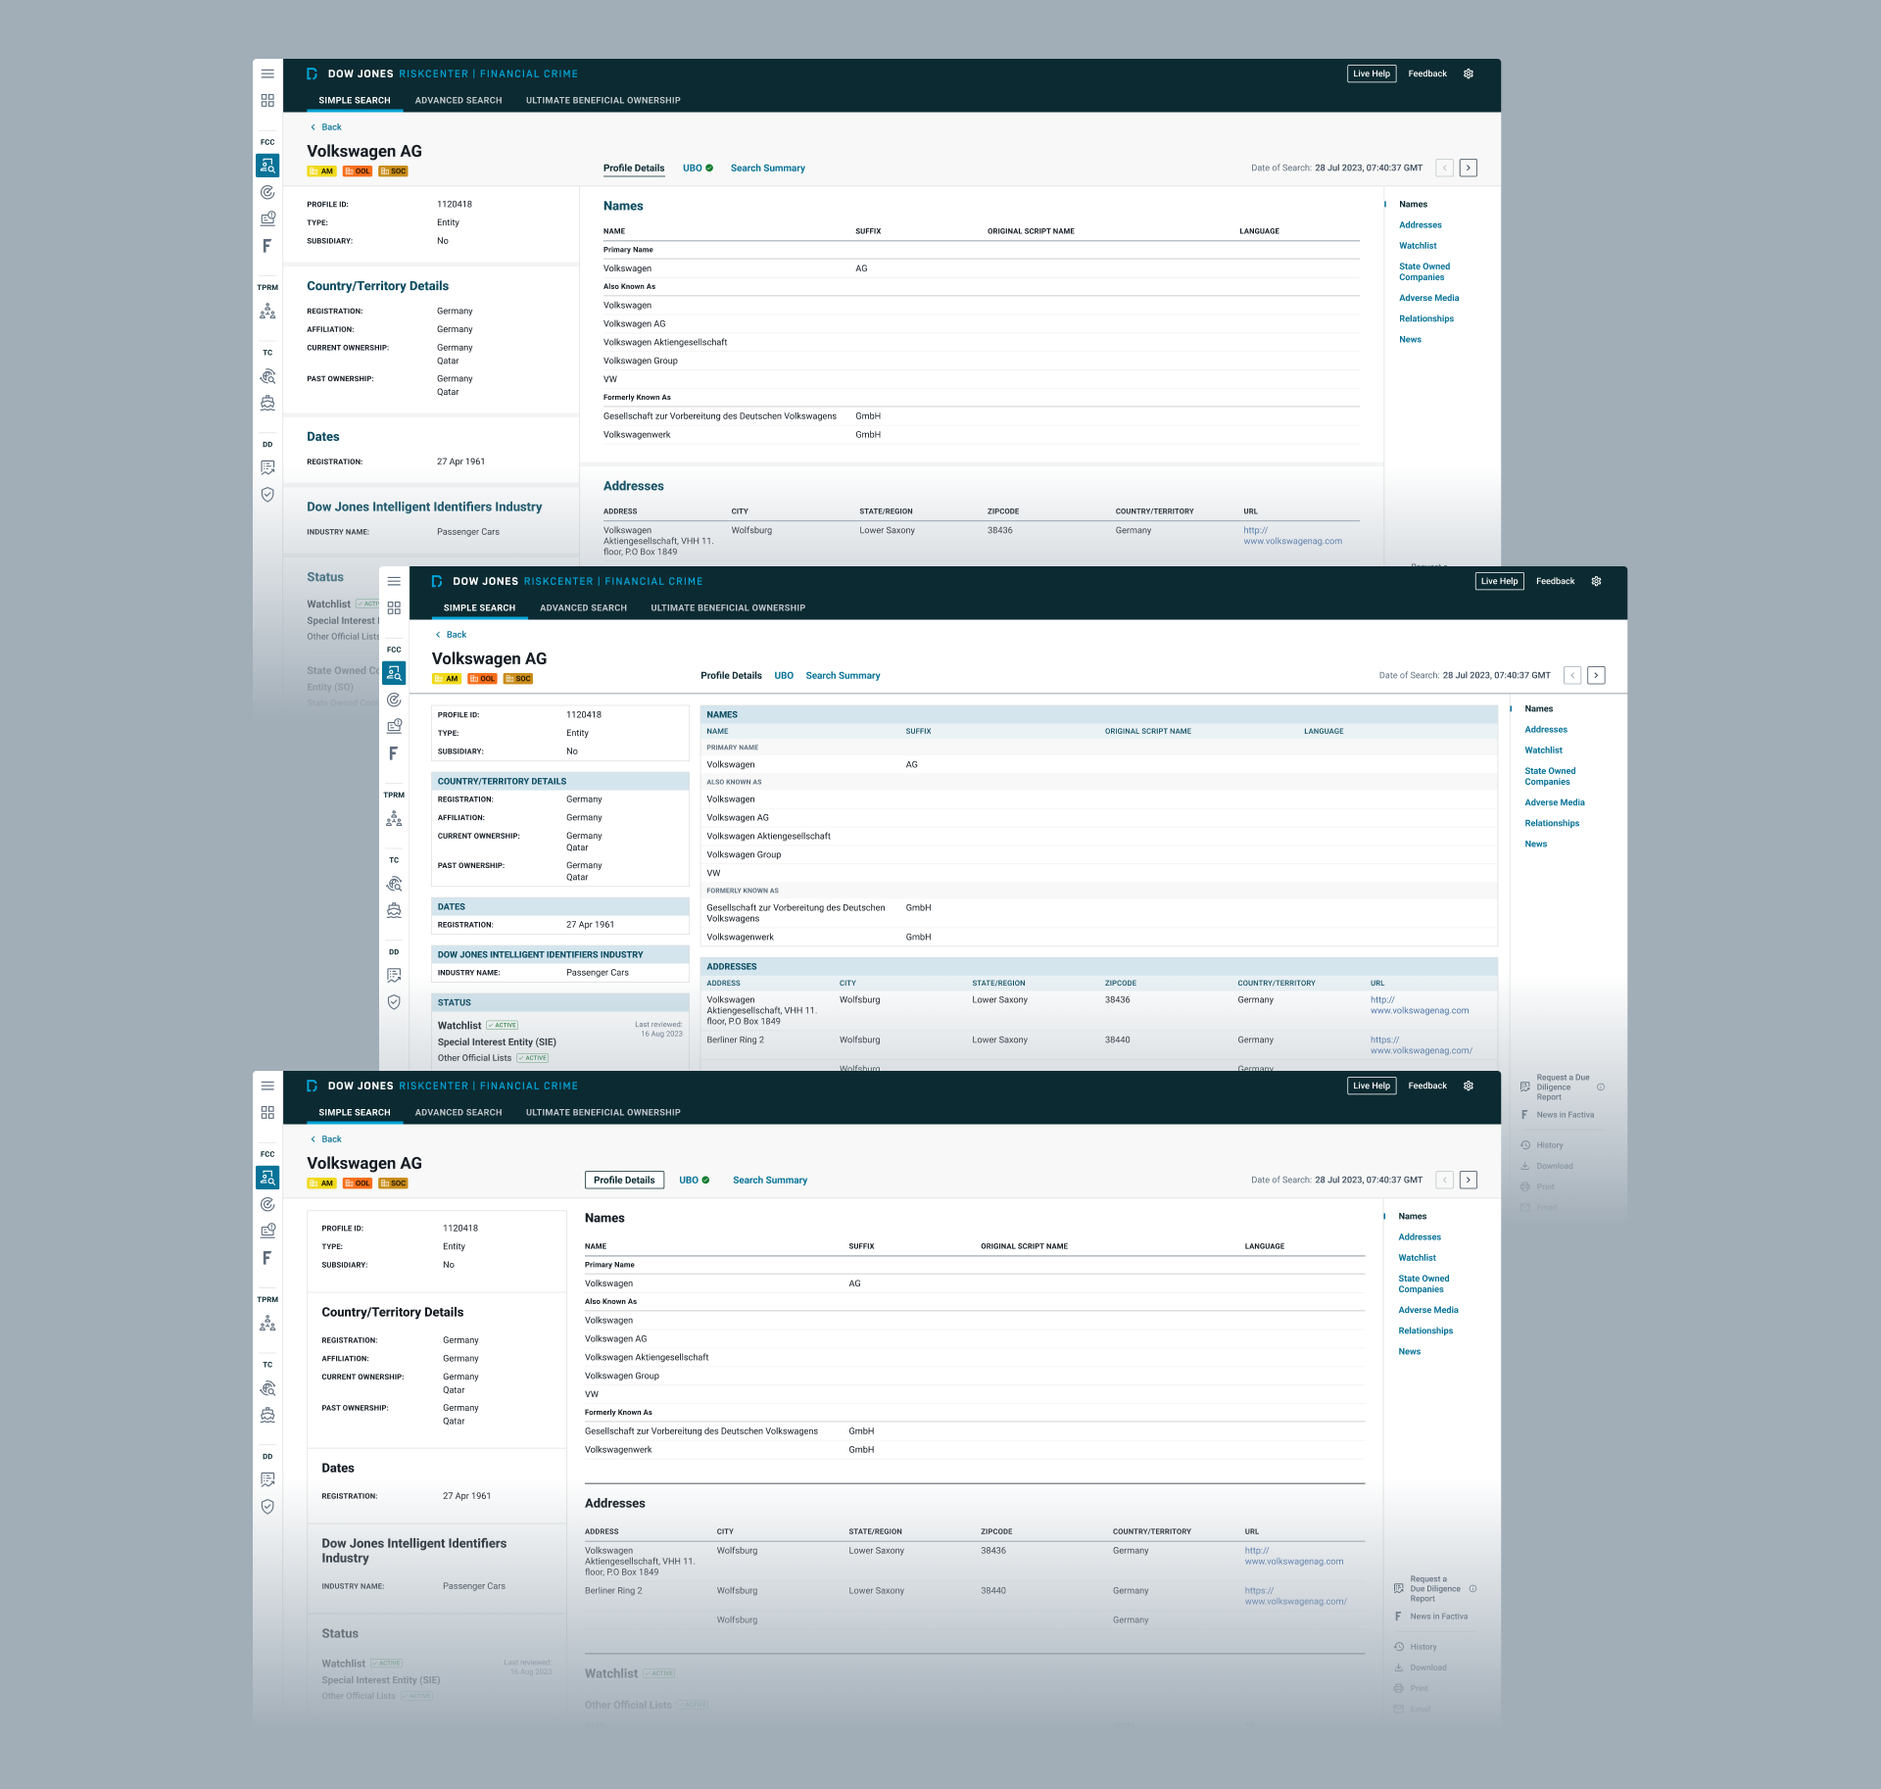
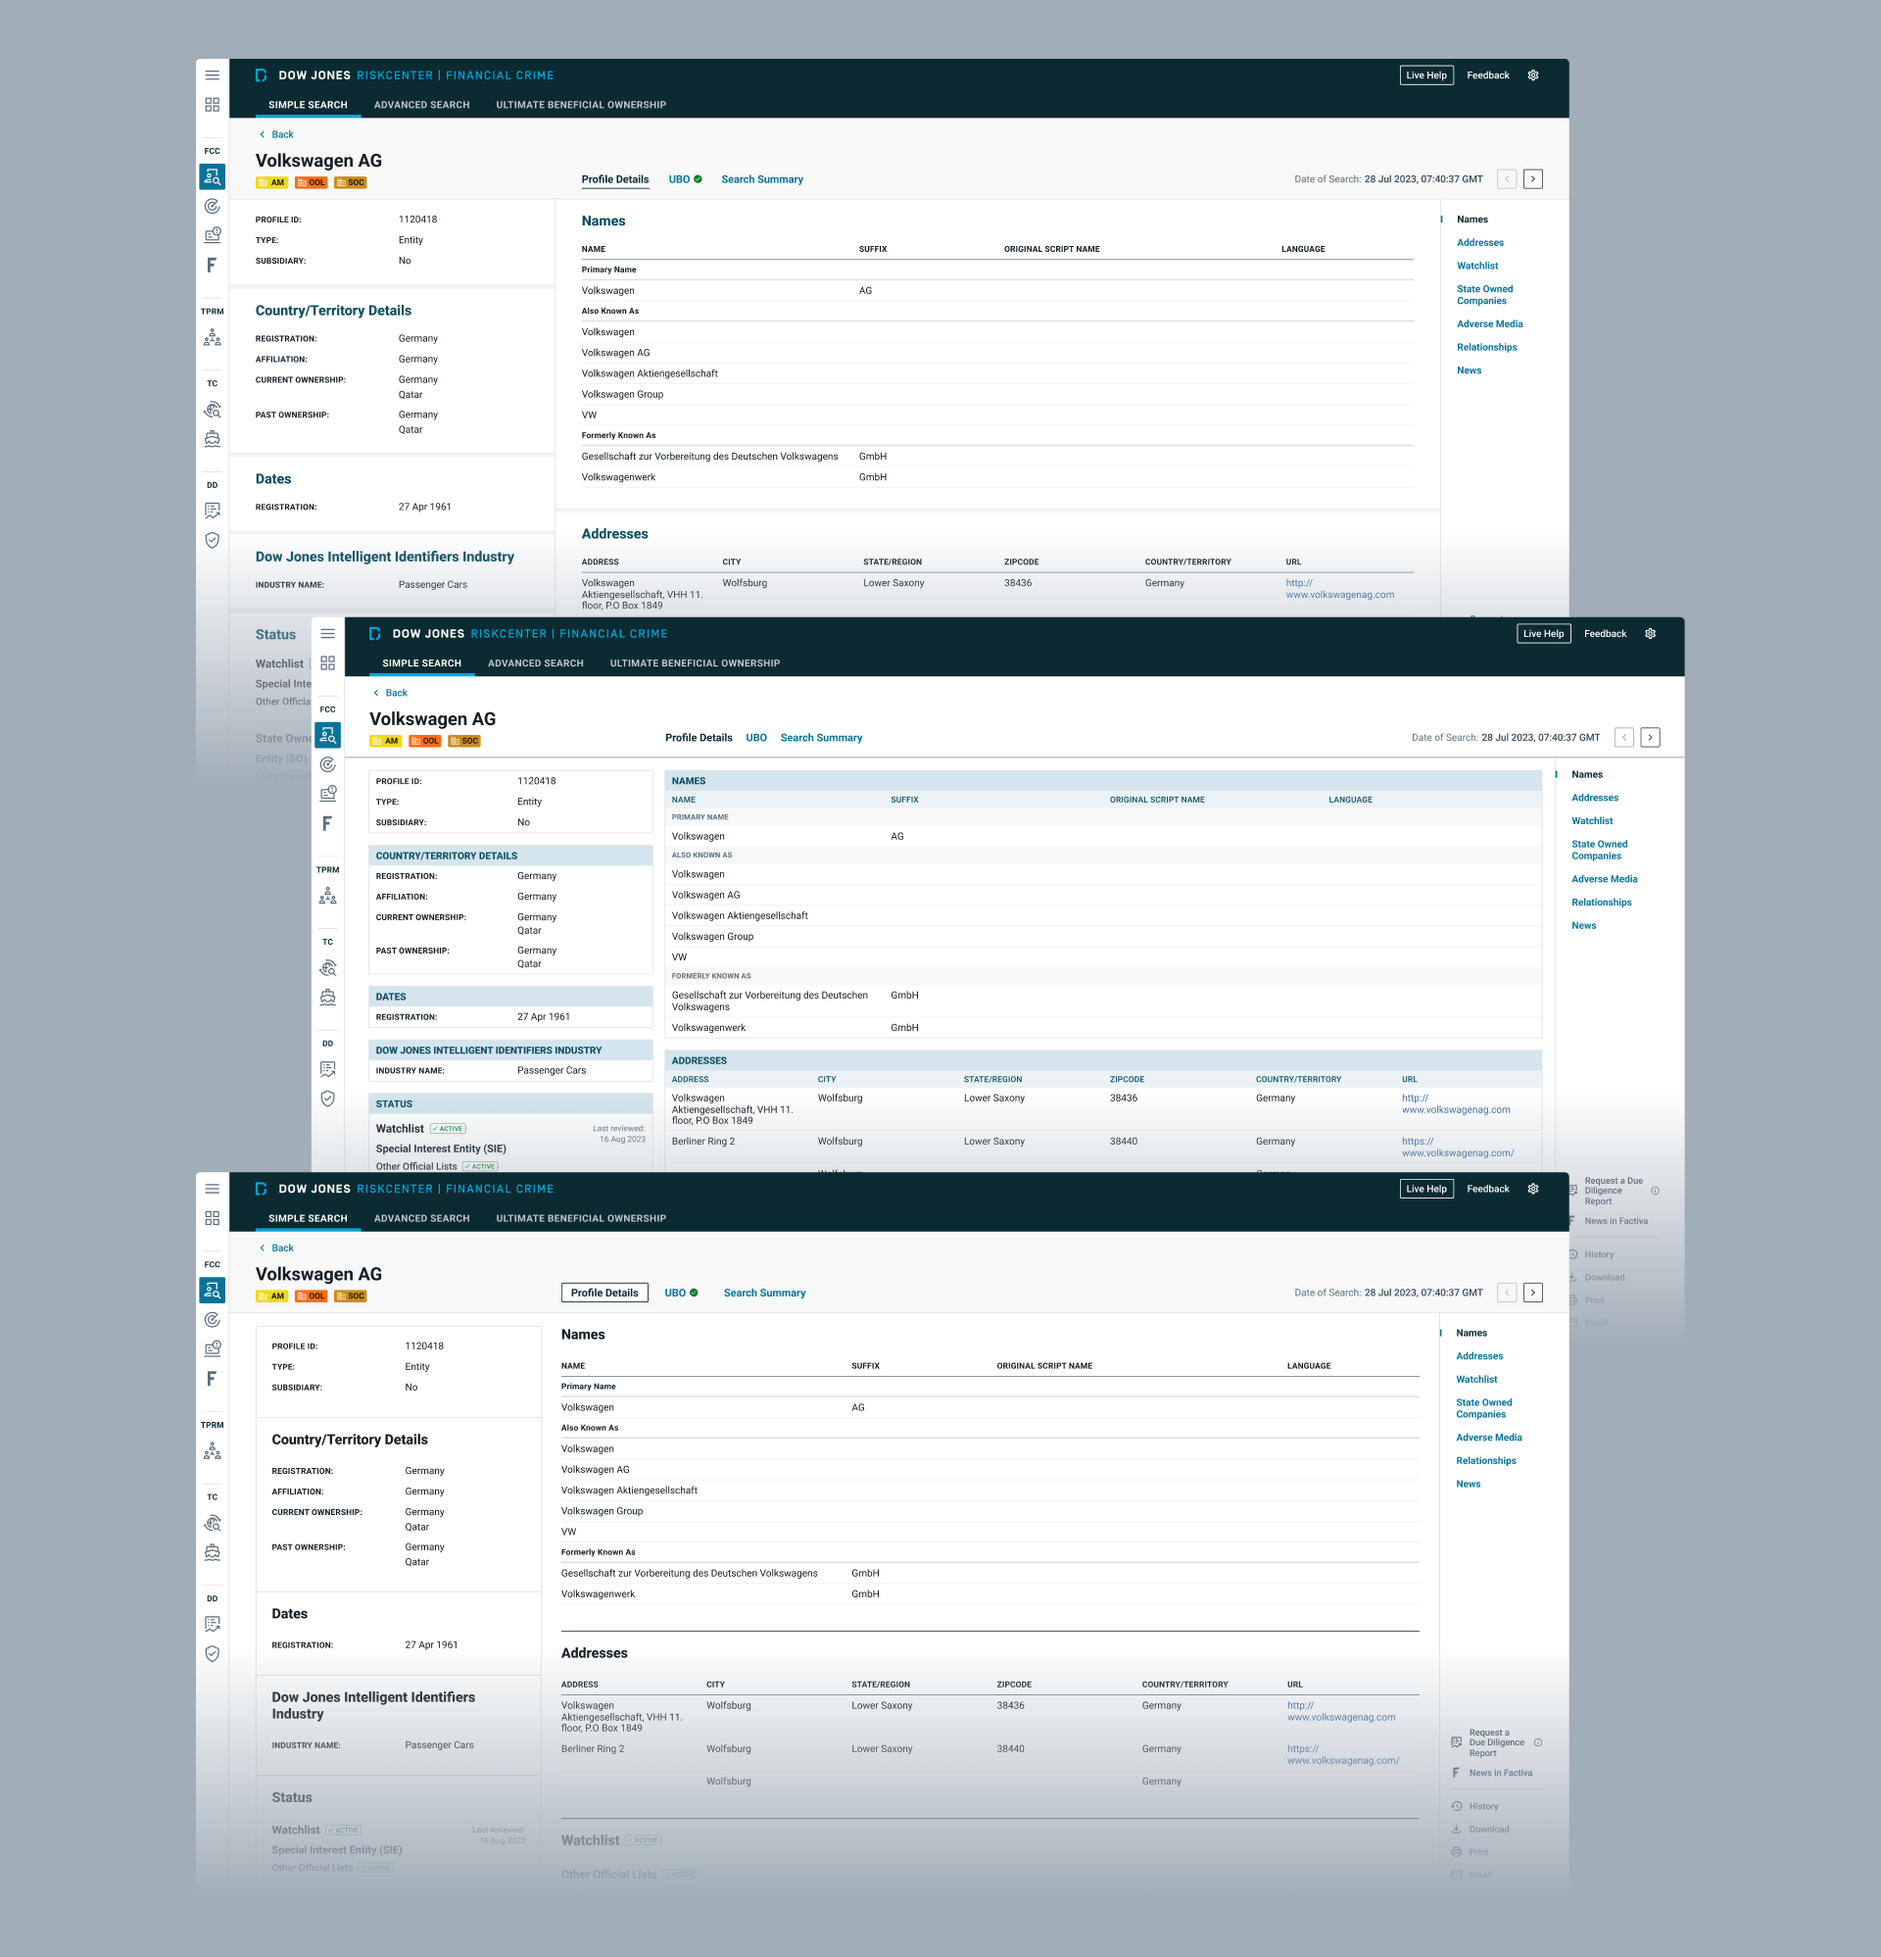
Update R&C case study

diff --git a/dow-jones-risk-and-compliance.html b/dow-jones-risk-and-compliance.html
@@ -135,17 +135,23 @@
       </figure>
     </div>
     <div class="middle-column">
-      <p class="large-text no-margin-top"><strong>Visual Exploration</strong></p>
-      <p>The old <strong>left navigation</strong> had a clunky look and feel, and some of the <strong>icons</strong> weren't accurate representations of the items. I explored the possibilities of the icons to convey the true meaning, while ensuring the style consistency. Some <strong>improvements</strong> were also made in the visual hierarchy.</p>
+      <p class="large-text no-margin-top"><strong>Visual Design</strong></p>
+      <p>The old <strong>global navigation</strong> had a clunky look and feel, and some of the <strong>icons</strong> weren't accurate representations of the items. I explored the possibilities of the icons to convey the true meaning, while ensuring the style consistency. Some <strong>improvements</strong> were also made in the visual hierarchy.</p>
     </div>
     <div class="artwork">
       <figure>
-        <img src="images/dow-jones-risk-and-compliance/left-navigation.png" alt="Left Navigation"/>
-        <figcaption>Left navigation icons exploration and visual hierarchy improvement.</figcaption>
+        <img src="images/dow-jones-risk-and-compliance/global-navigation.png" alt="Global Navigation"/>
+        <figcaption>Global navigation icons exploration and visual hierarchy improvement.</figcaption>
       </figure>
     </div>
     <div class="middle-column">
-      <p>On the subject of <strong>page design</strong>, we moved the sidebar from the left to the right and minimized its size to <strong>maximize space</strong> for the actual profile information. We divided the profile information into <strong>two panels</strong>: the left panel showed the profile overview, providing a quick way for the user to confirm if it's the profile they're looking for, while the right panel displayed all the details the user needed to make informed decisions. Several options were created and iterated to achieve what we had in mind in the design direction.</p>
+      <p>On the subject of <strong>page design</strong>, we moved the sidebar (anchor menus) from the left to the right and minimized its size to <strong>maximize space</strong> for the actual profile information. We divided the profile information into <strong>two panels</strong>: the left panel showed the profile overview, providing a quick way for the user to confirm if it's the profile they're looking for, while the right panel displayed all the details the user needed to make informed decisions. Several options were created and iterated to achieve what we had in mind in the design direction.</p>
+    </div>
+    <div class="artwork">
+      <figure>
+        <img src="images/dow-jones-risk-and-compliance/wireframe.png" alt="Risk Profile Page Wireframe"/>
+        <figcaption>The selected wireframe after various explorations.</figcaption>
+      </figure>
     </div>
     <div class="artwork">
       <figure>
